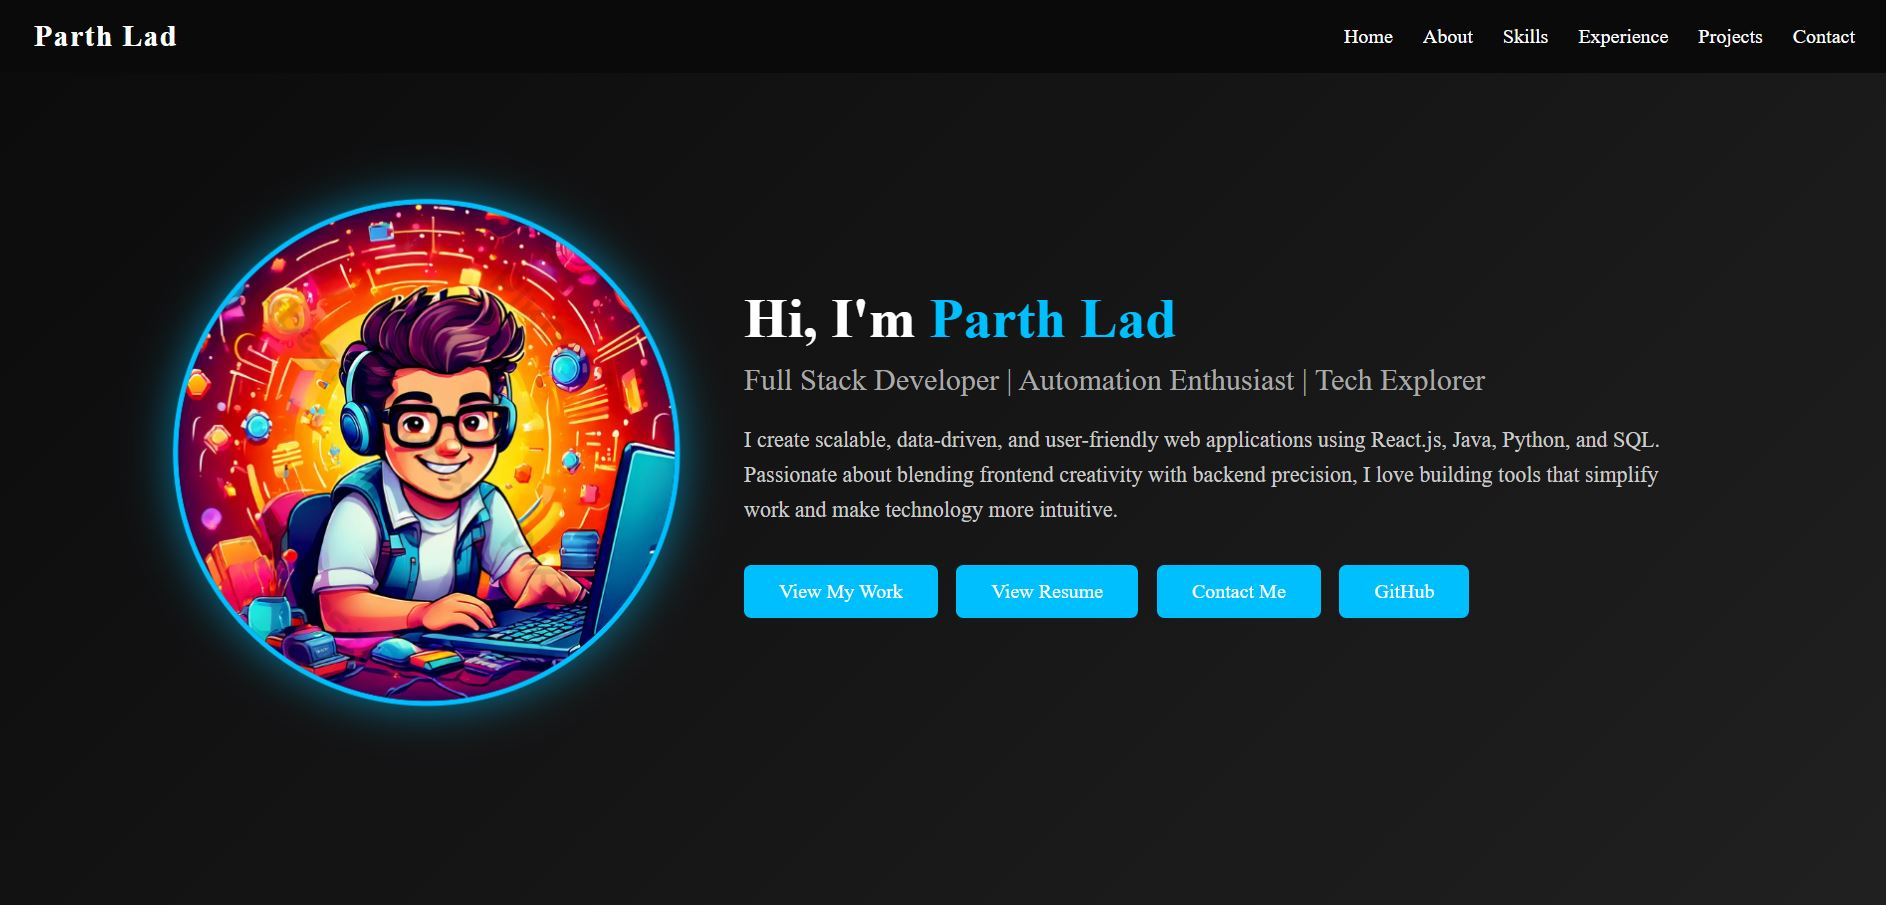
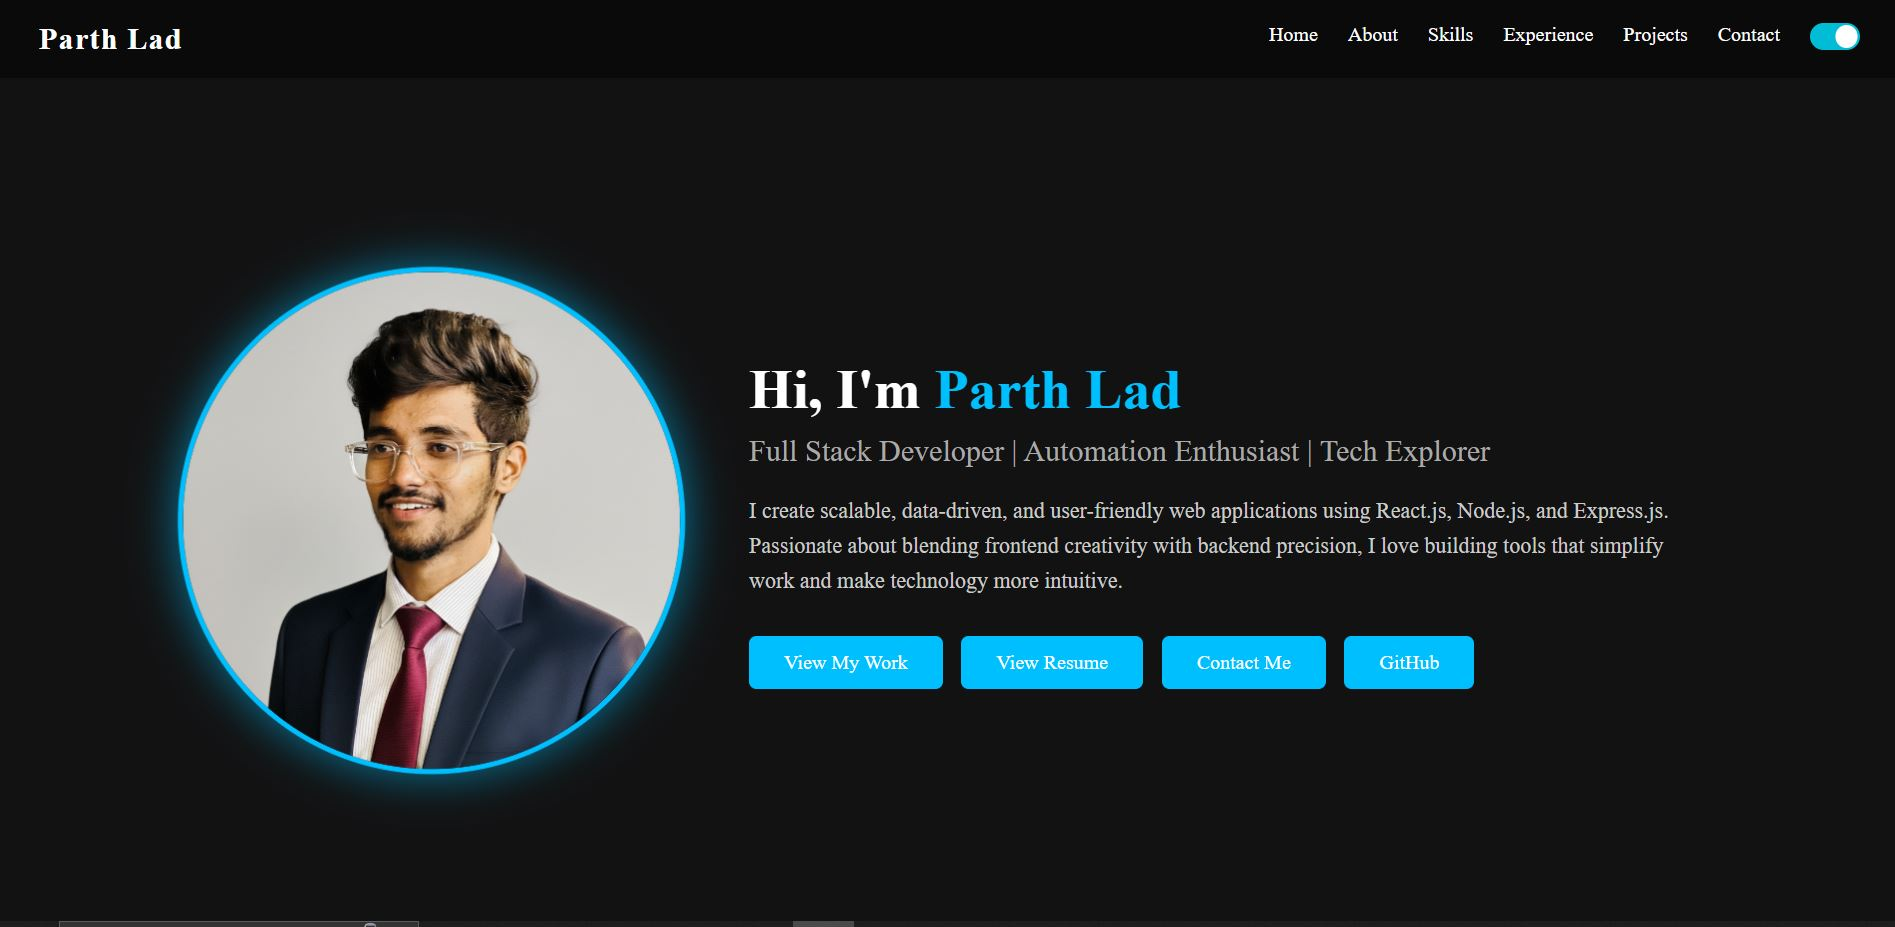
Update Portfolio Img and Make Some Changes

diff --git a/src/sections/Contact.css b/src/sections/Contact.css
@@ -12,7 +12,7 @@
 .contact-section h2 {
   font-size: 2.5rem;
   margin-bottom: 1rem;
-  color: #00bcd4;
+  color: #00bfff;
   font-family: 'Times New Roman', Times, serif;
 }
 
@@ -80,7 +80,7 @@
 
 /* Contact info links */
 .contact-info {
-  margin-top: 2rem;
+  margin-top: 3rem;
   display: flex;
   justify-content: center; /* Center the icons */
   gap: 2rem;               /* Space between icons */
@@ -109,19 +109,19 @@
 /* Example: red glow for Gmail icon */
 .icon-email {
   color: #C5221F; /* Gmail color */
-  filter: drop-shadow(0 0 10px #C5221Fc3);
+  filter: drop-shadow(0 0 10px #c5221f63);
 }
 
 /* Green glow for Phone */
 .icon-phone {
   color: #25D366;
-  filter: drop-shadow(0 0 10px #25d365c3);
+  filter: drop-shadow(0 0 10px #25d36563);
 }
 
 /* Blue glow for LinkedIn */
 .icon-linkedin {
   color: #0A66C2;
-   filter: drop-shadow(0 0 10px #0a66c2c3);
+   filter: drop-shadow(0 0 10px #0a66c263);
 }
 
 .icon-email, .icon-phone, .icon-linkedin {

diff --git a/src/sections/Experience.css b/src/sections/Experience.css
@@ -13,7 +13,7 @@
   margin-bottom: 40px;
   font-size: 2rem;
   font-weight: 700;
-  color: #00bcd4;
+  color: #00bfff;
 }
 
 /* LEFT TIMELINE LINE */
@@ -24,7 +24,7 @@
   top: 200px;
   width: 3px;
   height: var(--line-height, 0); /* dynamically updated */;
-  background: black;
+  background: var(--text-heading);
   border-radius: 2px;
   transition: none;
 }

diff --git a/src/sections/Project.css b/src/sections/Project.css
@@ -9,7 +9,7 @@
 .projects-section h2 {
   font-size: 2rem;
   margin-bottom: 40px;
-  color: #00bcd4;
+  color: #00bfff;
 }
 
 .projects-grid {
